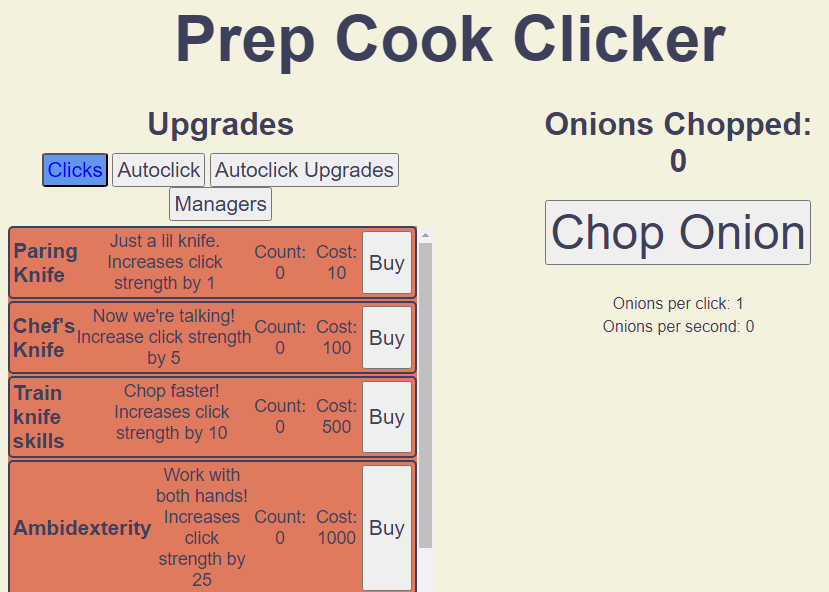
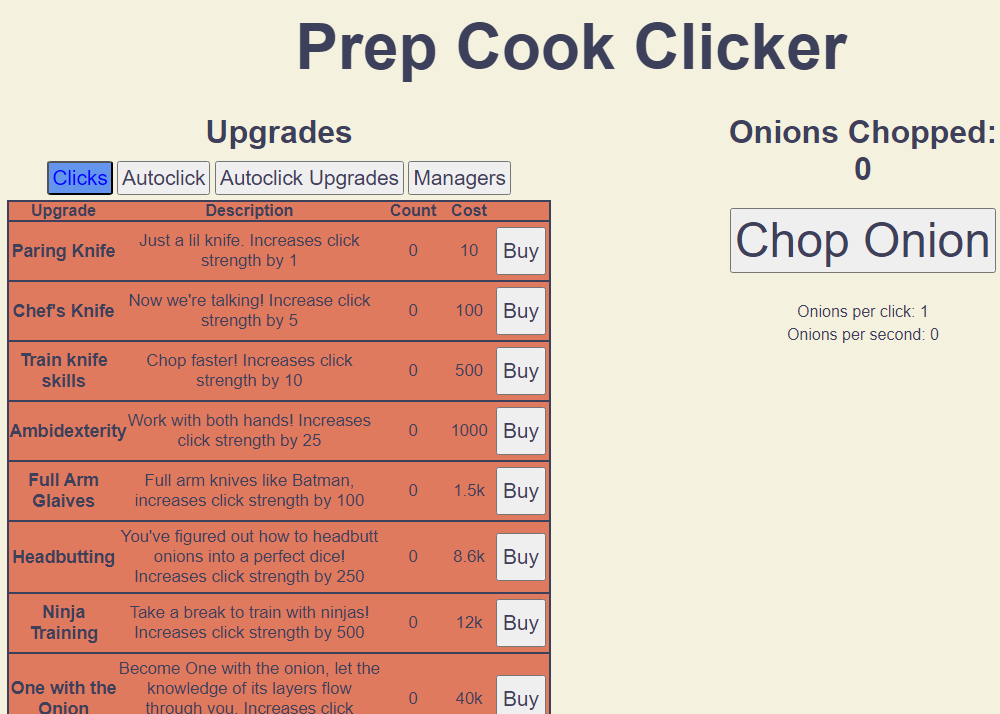
updates from clicker game

Changed region(s): [[0.0, 0.152, 0.573, 1.0], [0.6333, 0.152, 1.0, 0.5777], [0.2111, 0.0, 0.8745, 0.1216]]

diff --git a/prepCookClicker/script.js b/prepCookClicker/script.js
@@ -241,63 +241,67 @@ const managersObj = {
   },
 };
 
+const displayNum = function (num) {
+  if (num > 1000) return `${num / 1000}k`;
+  return num;
+};
+
 //setup
 const initializeUpgrades = function () {
   for (const [upgrade, data] of Object.entries(clickUpgradesObj.upgrades)) {
     let clickUpgradehtml = `
-      <div class="click-strength-upgrade upgrade" id="${upgrade}">
-        <h3 class="upg-name">${data.name}</h3>
-        <p>${data.description}</p>
-        <div class="upgrade-data">
-        <p class="count">Count: ${data.count}</p>
-        <p class="cost">Cost: ${data.cost}</p>
-        <button class="buy">Buy</button>
-        </div>
-      </div>
+      <tr class="click-strength-upgrade upgrade" id="${upgrade}">
+        <th scope="row" class="upg-name">${data.name}</th>
+        <td>${data.description}</td>
+        <td class="count">${data.count}</td>
+        <td class="cost">${displayNum(data.cost)}</td>
+        <td><button class="buy">Buy</button></td>
+      </tr>
       `;
     clickUpgradesDiv.insertAdjacentHTML("beforeend", clickUpgradehtml);
   }
   for (const [clicker, data] of Object.entries(autoclickObj.clickers)) {
     let autoClickerDivHTML = `
-    <div class="autoclicker upgrade" id="${clicker}">
-      <h3 class="upg-name">${data.name}</h3>
-      <p>${data.description}</p>
-      <div class="upgrade-data">
-      <p class="count">Count: ${data.count}</p>
-      <p class="cost">Cost: ${data.cost}</p>
-      <button class="buy">Buy</button>
-      </div>
-    </div>
+    <tr class="autoclicker upgrade" id="${clicker}">
+      <th scope="row" class="upg-name">${data.name}</th>
+      <td>${data.description}</td>
+      <td class="count">${data.count}</td>
+      <td class="cost">${displayNum(data.cost)}</td>
+      <td><button class="buy">Buy</button></td>
+    </tr>
     `;
     autoPurchasesDiv.insertAdjacentHTML("beforeend", autoClickerDivHTML);
   }
   for (const [upgrade, data] of Object.entries(autoclickUpObj.autoclickUps)) {
     let autoClickUpDivHTML = `
-    <div class="autoclickUp upgrade" id="${upgrade}">
-      <h3 class="upg-name">${data.name}</h3>
-      <p>${data.description}</p>
-      <div class="upgrade-data">
-      <p class="count">Count: ${data.count}</p>
-      <p class="cost">Cost: ${data.cost}</p>
-      <button class="buy">Buy</button>
-      </div>
-    </div>
+    <tr class="autoclickUp upgrade" id="${upgrade}">
+      <th scope="row" class="upg-name">${data.name}</th>
+      <td>${data.description}</td>
+      <td class="count">${data.count}</td>
+      <td class="cost">${displayNum(data.cost)}</td>
+      <td><button class="buy">Buy</button></td>
+    </tr>
     `;
     autoUpgradesDiv.insertAdjacentHTML("beforeend", autoClickUpDivHTML);
   }
   for (const [manager, data] of Object.entries(managersObj.managers)) {
     let managerHTML = `
-    <div class="manager upgrade" id="${manager}">
-      <h3 class="upg-name">${data.name}</h3>
-      <p>${data.description}</p>
-      <div class="upgrade-data">
-      <p class="owned">Owned?: ${data.owned}</p>
-      <p class="cost">Cost: ${data.cost}</p>
-      <button class="btnOnOff">Off</button>
-      <button class="buy">Buy</button>
-      </div>
-    </div>`;
-    managersDiv.insertAdjacentHTML("beforeend", managerHTML);
+    <tr class="manager upgrade" id="${manager}">
+      <th class="upg-name">${data.name}</th>
+      <td>${data.description}</td>
+      <td class="owned">${data.owned ? "Yes" : "No"}</td>
+      <td class="cost">${displayNum(data.cost)}</td>
+      <td><button class="buy">Buy</button></td>
+      <td>
+        <label class="switch">
+          <input type="checkbox" class="toggleOnOff" disabled="disabled">
+          <span class="slider"></span>
+        </label>
+      </td>
+    </tr>`;
+    managersDiv
+      .querySelector("tbody")
+      .insertAdjacentHTML("beforeend", managerHTML);
   }
 };
 initializeUpgrades();
@@ -329,9 +333,9 @@ const showUpgradePane = function (btn) {
 
 const updateCostCount = function (upgrade, element) {
   upgrade.count++;
-  element.querySelector(".count").textContent = `Count: ${upgrade.count}`;
+  element.querySelector(".count").textContent = `${upgrade.count}`;
   upgrade.cost = Math.floor(upgrade.cost * 1.2);
-  element.querySelector(".cost").textContent = `Cost: ${upgrade.cost}`;
+  element.querySelector(".cost").textContent = `${upgrade.cost}`;
 };
 
 const updatePerClick = function () {
@@ -395,8 +399,11 @@ const buyManager = function (upgrade, element) {
   if (onionChopped >= upgrade.cost && !upgrade.owned) {
     decrementOnions(upgrade.cost);
     upgrade.owned = upgrade.on = true;
-    element.querySelector(".owned").textContent = `Owned: ${upgrade.owned}`;
-    element.querySelector(".btnOnOff").textContent = `On`;
+    element.querySelector("button").style.display = "none";
+    element.querySelector(".owned").textContent = `Yes`;
+    const toggle = element.querySelector(".toggleOnOff");
+    toggle.disabled = false;
+    toggle.checked = true;
   }
 };
 
@@ -414,11 +421,11 @@ const buyUpgrade = function (element) {
   }
 };
 
-const toggleManager = function (btn) {
-  let manager = managersObj.managers[btn.closest(".upgrade").id];
+const toggleManager = function (toggle) {
+  let manager = managersObj.managers[toggle.closest(".upgrade").id];
   if (!manager.owned) return;
   manager.on = !manager.on;
-  btn.textContent = manager.on ? "On" : "Off";
+  toggle.checked = manager.on ? true : false;
 };
 
 //autochopper
@@ -464,7 +471,7 @@ upgradesContainer.addEventListener("click", function (e) {
   if (!e.target.classList.contains("buy")) return;
   buyUpgrade(e.target);
 });
-managersDiv.addEventListener("click", function (e) {
-  if (!e.target.classList.contains("btnOnOff")) return;
+managersDiv.addEventListener("change", function (e) {
+  if (!e.target.classList.contains("toggleOnOff")) return;
   toggleManager(e.target);
 });

diff --git a/prepCookClicker/index.html b/prepCookClicker/index.html
@@ -33,10 +33,55 @@
             Managers
           </button>
         </nav>
-        <div id="click-strength" class="upgrades-pane upgrades-pane--1"></div>
-        <div id="autoclick" class="hidden upgrades-pane upgrades-pane--2"></div>
-        <div id="auto-up" class="hidden upgrades-pane upgrades-pane--3"></div>
-        <div id="managers" class="hidden upgrades-pane upgrades-pane--4"></div>
+        <table id="click-strength" class="upgrades-pane upgrades-pane--1">
+          <thead>
+            <tr class="manager upgrade" id="${manager}">
+              <th scope="col" class="header_title">Upgrade</th>
+              <th scope="col" class="header_description">Description</th>
+              <th scope="col" class="header_count">Count</th>
+              <th scope="col" class="header_cost">Cost</th>
+              <th scope="col" class="header_buy"></th>
+            </tr>
+          </thead>
+          <tbody></tbody>
+        </table>
+        <table id="autoclick" class="hidden upgrades-pane upgrades-pane--2">
+          <thead>
+            <tr class="manager upgrade" id="${manager}">
+              <th scope="col" class="header_title">Upgrade</th>
+              <th scope="col" class="header_description">Description</th>
+              <th scope="col" class="header_count">Count</th>
+              <th scope="col" class="header_cost">Cost</th>
+              <th scope="col" class="header_buy"></th>
+            </tr>
+          </thead>
+          <tbody></tbody>
+        </table>
+        <table id="auto-up" class="hidden upgrades-pane upgrades-pane--3">
+          <thead>
+            <tr class="manager upgrade" id="${manager}">
+              <th scope="col" class="header_title">Upgrade</th>
+              <th scope="col" class="header_description">Description</th>
+              <th scope="col" class="header_count">Count</th>
+              <th scope="col" class="header_cost">Cost</th>
+              <th scope="col" class="header_buy"></th>
+            </tr>
+          </thead>
+          <tbody></tbody>
+        </table>
+        <table id="managers" class="hidden upgrades-pane upgrades-pane--4">
+          <thead>
+            <tr class="manager upgrade" id="${manager}">
+              <th scope="col" class="header_title">Upgrade</th>
+              <th scope="col" class="header_description">Description</th>
+              <th scope="col" class="header_owned">Owned?</th>
+              <th scope="col" class="header_cost">Cost</th>
+              <th scope="col" class="header_buy"></th>
+              <th scope="col" class="header_active">Active?</th>
+            </tr>
+          </thead>
+          <tbody></tbody>
+        </table>
       </div>
       <div class="right">
         <h2 id="served">Onions Chopped:</h2>

diff --git a/prepCookClicker/styles.css b/prepCookClicker/styles.css
@@ -48,56 +48,108 @@ button {
 
 .upgrades-pane {
   background-color: var(--accent-color1);
-  width: 45%;
+  width: 100%;
   height: 65%;
-  position: absolute;
-  border-radius: 5px;
-  display: flex;
-  flex-direction: column;
-  overflow-y: auto;
   margin-top: 5px;
+  overflow-y: auto;
+}
+
+table {
+  table-layout: fixed;
+  border-collapse: collapse;
+  border: 2px solid var(--text-color1);
+}
+
+td {
+  font-size: 1.05rem;
+  padding: 5px 0;
+}
+
+tbody th {
+  font-size: 1.1rem;
+}
+
+.header_title {
+  width: 20%;
+}
+
+.header_count {
+  width: 4rem;
+}
+
+.header_owned {
+  width: 4.5rem;
+}
+
+.header_cost {
+  width: 3rem;
+}
+
+.header_buy {
+  width: 3.5rem;
+}
+
+.header_active {
+  width: 4rem;
 }
 
 .upgrade {
-  display: flex;
-  justify-content: space-between;
   border: 2px solid var(--text-color1);
-  border-radius: 5px;
   padding: 3px;
-  align-content: center;
   margin-bottom: 2px;
-}
-
-.upgrade p {
-  font-size: 1.1rem;
-  text-align: center;
-}
-
-.upgrade h3 {
-  font-size: 1.3rem;
-  margin: auto auto auto 0;
-  text-align: left;
 }
 
 .upgrade button {
   padding: 10px 5px;
 }
 
-.upgrade-data {
-  display: flex;
-  width: 40%;
-  justify-content: flex-end;
+.switch {
+  position: relative;
+  display: inline-block;
+  width: 40px;
+  height: 24px;
 }
 
-.upgrade-data p {
-  margin: auto 5px;
+.switch input {
+  opacity: 0;
+  width: 0;
+  height: 0;
 }
-.cost,
-.buy,
-.owned,
-.btnOnOff,
-.count {
-  width: min-content;
+
+.slider {
+  position: absolute;
+  cursor: pointer;
+  top: 0;
+  left: 0;
+  bottom: 0;
+  right: 0;
+  background-color: rgb(173, 173, 173);
+  transition: 0.3s;
+  -webkit-transition: 0.3s;
+  border-radius: 30px;
+}
+
+.slider:before {
+  position: absolute;
+  content: "";
+  height: 16px;
+  width: 16px;
+  left: 4px;
+  bottom: 4px;
+  background-color: var(--background-color);
+  -webkit-transition: 0.4s;
+  transition: 0.4s;
+  border-radius: 50%;
+}
+
+input:checked + .slider {
+  background-color: rgb(14, 146, 255);
+}
+
+input:checked + .slider:before {
+  transform: translateX(16px);
+  -ms-transform: translateX(16px);
+  -webkit-transform: translateX(16px);
 }
 
 .right {
